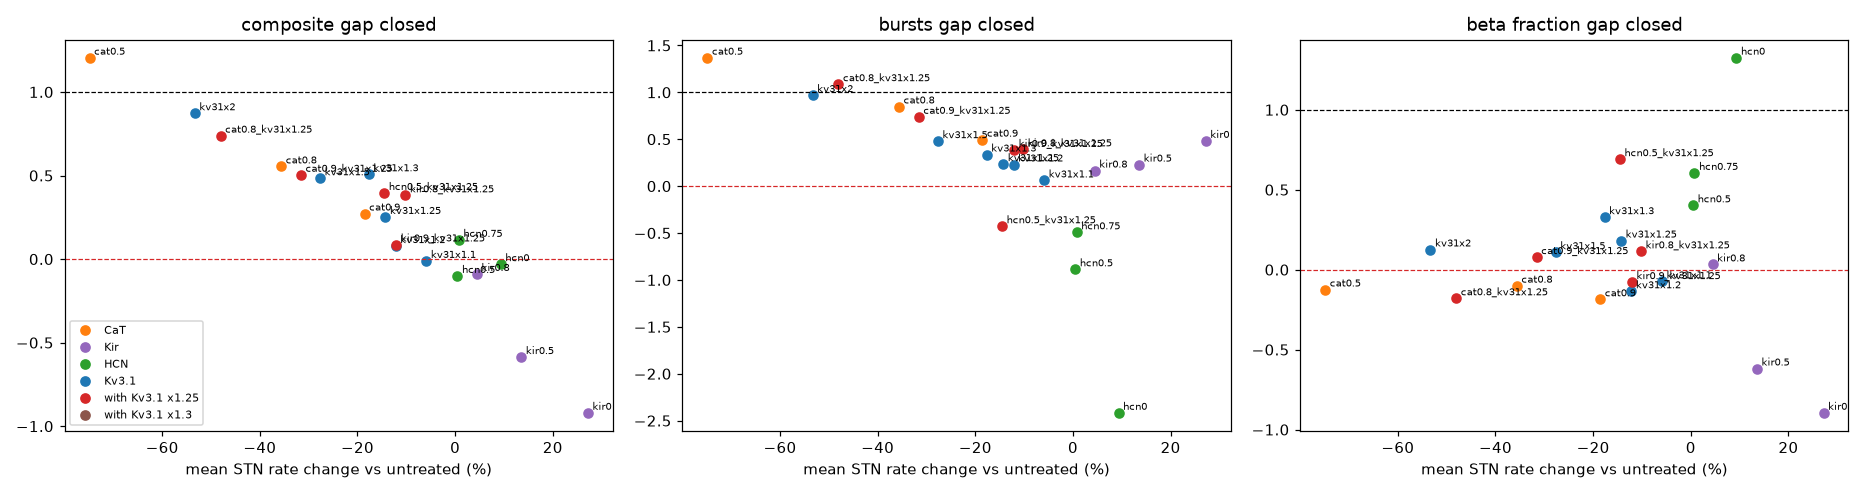
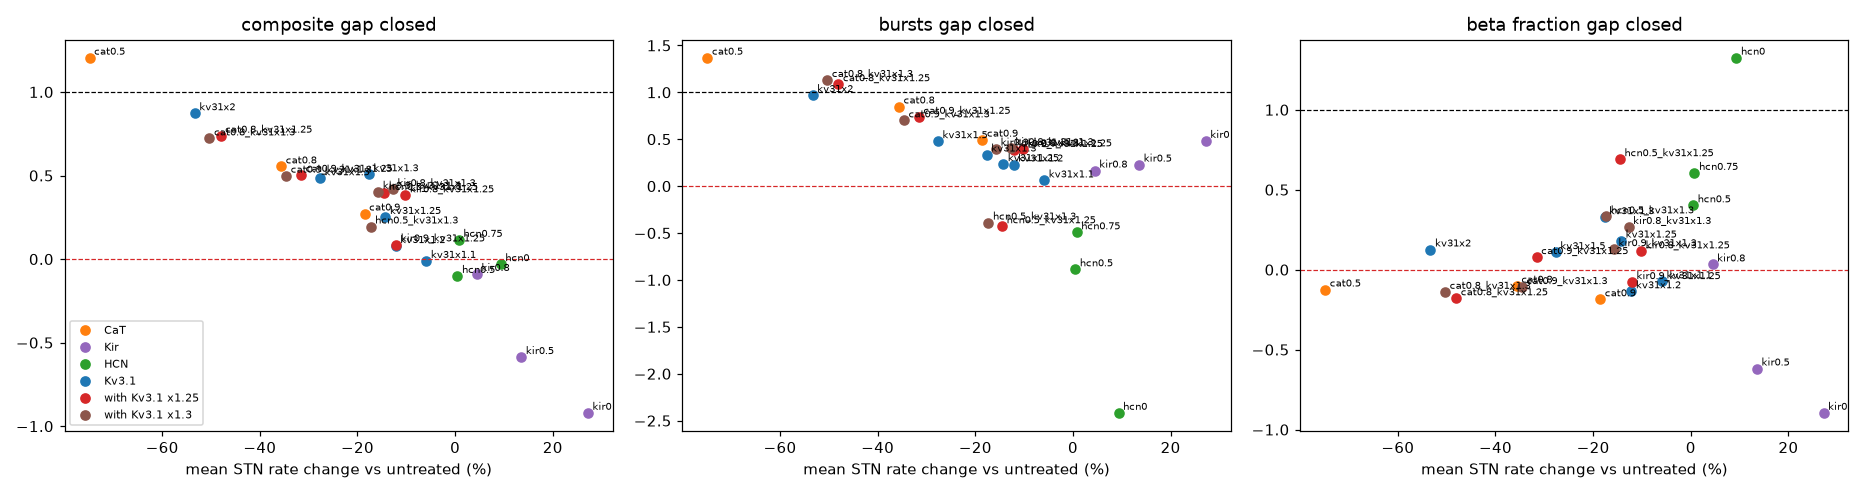
rescue_v2: full results incl. combinations at Kv3.1 x1.3
Claude-Session: https://claude.ai/code/session_01V1zyES4ZiM8ZqYqCwKTb3X

diff --git a/results/rescue_v2/README.md b/results/rescue_v2/README.md
@@ -1,3 +1,101 @@
-# Rescue sweep v2 (in progress)
+# Rescue sweep v2 on the current model: CaT / Kir / HCN block, Kv3.1 dose, combinations, 2026-10-27
 
-Stage 1 (single blocks, Kv3.1 dose, combinations with Kv3.1 x1.25) is complete: see `gap_table.csv`, `kv31_dose.png`, `gap_vs_rate.png`. Stage 2 (combinations at Kv3.1 x1.3) is running; the full write-up follows.
+## Model and design
+
+The current default model (model state: commit `adc8379`):
+- configuration D: GPe beta graded along the axis, topographic GPe<->STN (12 groups, sigma 0.1), 1 nS base;
+- equal Kir 0.3 / 0.3, Kv3.1 PV+ 1.2 / PV- 1.15, cortex 0.8 nS;
+- parkinsonian GPe->STN synapse scale 2.0;
+- per-type GABA:glutamate ratio (`gpe_gaba_scale` PV+ 1.13 / PV- 0.87).
+
+All factors act on all STN cells through `cfg.channel_block`. A Kv3.1 factor > 1 models a Kv3.1 opener.
+Each condition is 5 seeds x 3 s (`sweeps/rescue_v2.py`). The healthy and untreated runs are those of
+`sweeps/gaba_ratio.py`.
+- **Stage 1:** single blocks, the Kv3.1 dose series, and combinations with Kv3.1 x1.25.
+- **Stage 2:** the same combinations at Kv3.1 x1.3, the most consistent dose of stage 1.
+
+Files:
+- `gap_table.csv`: all gaps, composite +- SEM, rates, and the number of seeds with the beta peak at
+  the upper middle.
+- `kv31_dose.png`: Kv3.1 dose response.
+- `gap_vs_rate.png`: composite, burst and beta-fraction gap against the change in mean STN rate.
+- `summary.png`, `psd.png`, `summary.csv`: per-condition metrics and spectra.
+- `make_figures.py`: regenerates the table and figures.
+
+**Gap closed** is 1 at healthy, 0 at untreated PD, and < 0 further away. The **composite** is the mean
+gap over beta power, beta fraction, synchrony at axis 0.65 and burst fraction, computed per seed;
++- is the SEM over seeds. "PV+ / PV- pairs" is the shared (pairwise) beta between cells of that type.
+Untreated PD vs healthy: PV+ 32.9 / PV- 16.4 Hz vs 37.5 / 20.3 Hz, bursts 0.161 vs 0.046.
+
+## Results
+
+| condition | beta pow | beta frac | sync @0.65 | bursts | PV+ pairs | PV- pairs | **composite** | rate change | PV+ / PV- (Hz) |
+|---|---|---|---|---|---|---|---|---|---|
+| CaT 0.9 | 0.42 | -0.19 | 0.36 | 0.49 | 0.47 | 0.09 | 0.27 +- 0.14 | -19% | 27.8 / 13.1 |
+| CaT 0.8 | 1.02 | -0.10 | 0.45 | 0.85 | 0.65 | 0.89 | 0.55 +- 0.12 | -36% | 22.6 / 10.2 |
+| CaT 0.5 | 2.25 | -0.12 | 1.32 | 1.37 | 1.38 | 1.53 | 1.21 +- 0.14 | -75% | 9.1 / 3.9 |
+| Kir 0.8 | -0.29 | 0.03 | -0.26 | 0.17 | 0.14 | -0.59 | -0.09 +- 0.17 | +4% | 34.5 / 17.1 |
+| Kir 0.5 | -1.54 | -0.62 | -0.42 | 0.23 | -1.27 | -1.54 | -0.59 +- 0.21 | +14% | 37.0 / 18.8 |
+| Kir 0 | -2.64 | -0.90 | -0.63 | 0.48 | -1.96 | -2.68 | -0.92 +- 0.33 | +27% | 40.5 / 21.3 |
+| HCN 0.75 | 0.45 | 0.60 | -0.10 | -0.49 | -0.22 | 0.53 | 0.12 +- 0.18 | +1% | 33.4 / 16.5 |
+| HCN 0.5 | 0.31 | 0.40 | -0.23 | -0.89 | -0.42 | 0.41 | -0.10 +- 0.13 | 0% | 32.9 / 16.6 |
+| HCN 0 | 1.01 | **1.33** | -0.05 | **-2.42** | 0.74 | 1.01 | -0.03 +- 0.12 | +9% | 33.8 / 18.5 |
+| Kv3.1 x1.1 | 0.06 | -0.07 | -0.09 | 0.06 | -0.17 | -0.04 | -0.01 +- 0.08 | -6% | 31.4 / 15.3 |
+| Kv3.1 x1.2 | 0.10 | -0.14 | 0.12 | 0.23 | -0.31 | 0.01 | 0.08 +- 0.10 | -12% | 29.7 / 14.2 |
+| Kv3.1 x1.25 | 0.44 | 0.18 | 0.15 | 0.23 | 0.20 | 0.21 | 0.25 +- 0.21 | -14% | 29.1 / 13.9 |
+| **Kv3.1 x1.3** | **0.86** | 0.33 | **0.50** | 0.34 | 0.60 | **0.82** | **0.51 +- 0.09** | **-18%** | 28.3 / 13.2 |
+| Kv3.1 x1.5 | 0.84 | 0.11 | 0.51 | 0.48 | 0.47 | 0.74 | 0.48 +- 0.16 | -28% | 25.1 / 11.6 |
+| Kv3.1 x2 | 1.69 | 0.13 | 0.71 | 0.97 | 0.93 | 1.30 | 0.87 +- 0.04 | -53% | 17.0 / 7.2 |
+| CaT 0.9 + Kv3.1 x1.25 | 0.97 | 0.08 | 0.23 | 0.74 | 0.33 | 0.84 | 0.50 +- 0.15 | -32% | 23.9 / 10.9 |
+| CaT 0.8 + Kv3.1 x1.25 | 1.28 | -0.18 | 0.77 | 1.09 | 0.60 | 0.96 | 0.74 +- 0.12 | -48% | 18.6 / 8.1 |
+| Kir 0.9 + Kv3.1 x1.25 | 0.08 | -0.08 | -0.04 | 0.39 | 0.18 | -0.11 | 0.09 +- 0.08 | -12% | 29.6 / 14.3 |
+| Kir 0.8 + Kv3.1 x1.25 | 0.48 | 0.11 | 0.54 | 0.39 | 0.40 | 0.25 | 0.38 +- 0.08 | -10% | 30.0 / 14.6 |
+| HCN 0.5 + Kv3.1 x1.25 | 0.98 | 0.69 | 0.34 | -0.43 | 0.70 | 0.80 | 0.40 +- 0.12 | -15% | 28.6 / 13.9 |
+| CaT 0.9 + Kv3.1 x1.3 | 0.92 | -0.11 | 0.48 | 0.70 | 0.58 | 0.53 | 0.50 +- 0.12 | -35% | 23.0 / 10.3 |
+| CaT 0.8 + Kv3.1 x1.3 | 1.38 | -0.14 | 0.52 | 1.13 | 0.53 | 1.06 | 0.72 +- 0.07 | -50% | 18.1 / 7.7 |
+| Kir 0.9 + Kv3.1 x1.3 | 0.56 | 0.13 | 0.53 | 0.40 | 0.06 | 0.49 | 0.40 +- 0.14 | -16% | 28.9 / 13.6 |
+| Kir 0.8 + Kv3.1 x1.3 | 0.64 | 0.27 | 0.36 | 0.40 | 0.17 | 0.65 | 0.42 +- 0.21 | -13% | 29.6 / 14.1 |
+| HCN 0.5 + Kv3.1 x1.3 | 0.76 | 0.33 | 0.07 | -0.39 | 0.27 | 0.64 | 0.20 +- 0.18 | -17% | 27.6 / 13.5 |
+
+![Kv3.1 dose](kv31_dose.png)
+![gap vs rate](gap_vs_rate.png)
+
+## Interpretation
+
+**Single blocks.** These repeat the pattern of the earlier networks.
+- **Kir block** is counterproductive for beta and synchrony. It raises rates (+27% at full block) and
+  sharply increases the beta shared between PV- pairs (gap -2.7). Only bursting improves, because
+  faster tonic firing leaves fewer pauses.
+- **HCN block** is the only intervention that normalizes the beta spectrum (beta fraction 1.33 at full
+  block, at unchanged rates). It does not reduce synchrony, and bursting becomes much worse (-2.4),
+  so the composite stays at ~0.
+- **CaT block** improves everything except the beta fraction, but only by suppressing firing: -36% rate
+  at CaT 0.8, -75% at CaT 0.5.
+
+**Kv3.1 dose: x1.3 is now a better dose than x1.25.**
+- x1.25 improves on average (composite 0.25) but very unevenly across seeds (-0.36 to +0.78).
+- x1.3 improves every seed (0.51 +- 0.09) for an 18% rate drop. At that dose:
+  - beta power is 0.86 closed, upper-middle synchrony 0.50 and bursts 0.34;
+  - shared beta is 0.82 closed for PV- pairs and 0.60 for PV+ pairs.
+- Higher doses add little per unit of rate loss: x1.5 gives 0.48 at -28%, x2 0.87 at -53%.
+- On the composite-vs-rate plot, x1.3 sits clearly above CaT block at the same rate cost (CaT 0.9:
+  0.27 at -19%). It is the most rate-efficient single intervention tested.
+- Kv3.1 never normalizes the beta fraction (<= 0.33), so the spectral shape stays parkinsonian.
+- The response from x1.2 to x1.3 is steep, so the exact optimum depends on the model's calibration.
+
+**Combinations: none beats Kv3.1 x1.3 alone.**
+- **CaT + Kv3.1** gains more only at a larger rate cost, and sits on the same rate trend:
+  - CaT 0.9 + x1.3: 0.50 at -35%;
+  - CaT 0.8 + x1.3: 0.72 at -50%.
+- **Slight Kir block + Kv3.1 x1.3** gives a similar composite to x1.3 alone (0.40-0.42 vs 0.51) and
+  buys back a few % of rate (-13 to -16% vs -18%). At x1.25, Kir 0.9 and 0.8 disagree (0.09 vs 0.38),
+  so the Kir partner effect is within seed noise.
+- **HCN 0.5 + Kv3.1** keeps part of HCN's beta-fraction benefit (0.69 at x1.25), but bursting stays worse
+  than untreated (about -0.4), even at x1.3. Kv3.1 at these doses cannot cancel HCN-induced bursting.
+
+**Bottom line.**
+- On the current model, Kv3.1 enhancement at ~x1.3 is the best rate-efficient rescue: about half of
+  the PD gap closed across beta power, upper-middle synchrony and bursting, for an 18% rate drop.
+- No tested partner improves on it without paying in rate (CaT) or in bursting (HCN).
+- The beta-spectrum shape (beta fraction) is normalized only by HCN block, which conflicts with the
+  burst symptom. That conflict remains unsolved.
